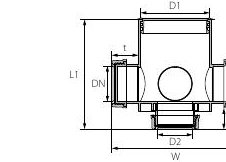
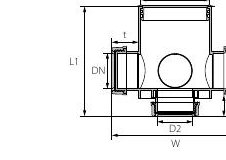
WIP(huliot): v35 — per-band PHOTO_H for drains p20-p23 + siphons p32-p36
תיקון של חתוכים שהמשתמש זיהה ב-comparison sheets:
- p20_a/b/c (drop gutters) — PHOTO_H 150/170/180
- p21_a/b/c (drains scaled by size) — 150/170/195
- p22_a/b, p23_a/b (drains open + kettle) — 155/180, 155/150
- p32_a/b/c (no-siphon + kitchen siphons) — 145/165/160
- p34_a, p35_b, p36_b, p39_b, p40_a, p42_b — siphon-page tuning

⚠ Pending visual re-check.

https://claude.ai/code/session_012bheWSnPnqWCqTErtCLGfz

diff --git a/app_flutter/scripts/crop_huliot.py b/app_flutter/scripts/crop_huliot.py
@@ -104,15 +104,41 @@ PER_BAND_PHOTO_H = {
     (12, 'd'): 110,
     # Page 14 — elbow מצרה צד אחד שקע תקע (band b)
     (14, 'b'): 145,
+    # Page 20 — drop gutters (photos larger than PER_PAGE)
+    (20, 'a'): 150,
+    (20, 'b'): 170,
+    (20, 'c'): 180,
+    # Page 21 — drains (photos scale with size)
+    (21, 'a'): 150,
+    (21, 'b'): 170,
+    (21, 'c'): 195,
+    # Page 22 — drains open
+    (22, 'a'): 155,
+    (22, 'b'): 180,
+    # Page 23 — kettle drains
+    (23, 'a'): 155,
+    (23, 'b'): 150,
     # Page 28 — cylindrical raised has DN tick below
     (28, 'c'): 110,
     # Page 30 — nickel grid has visible DN+H ticks
     (30, 'b'): 100,
-    # Page 32 — kitchen siphon — diagram pulled in below
+    # Page 32 — no-siphon (tall photo) + kitchen siphon
+    (32, 'a'): 145,
     (32, 'b'): 165,
-    (32, 'c'): 160,    # kitchen+dishwasher siphon
-    # Page 40 — inlet extension photo + adjacent label "ראש שקע תקע"
+    (32, 'c'): 160,
+    # Page 34 — american 1¼ siphon
+    (34, 'a'): 165,
+    # Page 35 — double american siphon (tall photo)
+    (35, 'b'): 195,
+    # Page 36 — H-washing tall photo
+    (36, 'b'): 190,
+    # Page 39 — long basin connector
+    (39, 'b'): 165,
+    # Page 40 — siphon kit + inlet extension
+    (40, 'a'): 165,
     (40, 'c'): 105,
+    # Page 42 — funnel
+    (42, 'b'): 195,
 }
 
 # Per-band override (page, tag) → PHOTO_H. Wins over PER_PAGE_PHOTO_H.
